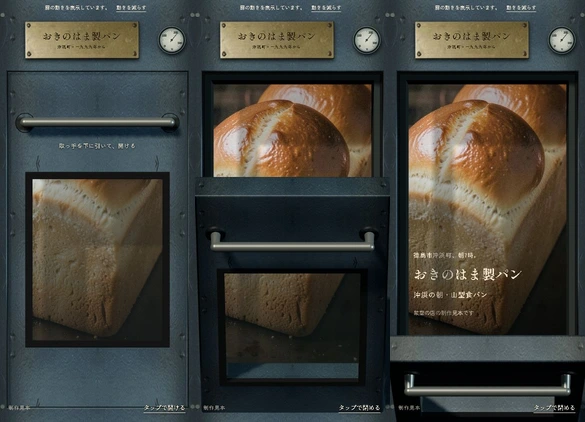
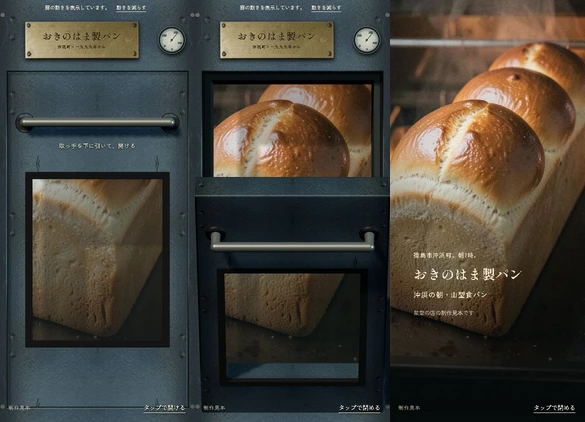
Release the full viewport after opening the oven door

Changed region(s): [[0.6462, 0.0, 1.0, 1.0]]

diff --git a/door-review/door.js b/door-review/door.js
@@ -6,7 +6,30 @@ const motion=matchMedia('(prefers-reduced-motion: reduce)'),note=document.getEle
 const help=document.getElementById('gesture-help'),renderNote=document.getElementById('render-note');
 let progress=0,width=1,height=1,drag=null,tween=0,lastPointerMove=-1000,motionAllowed=false;
 let engine=null,failed=false,gripBounds=null,baseHandleWidth=1;
+let view=0,viewTween=0;
 const isCalm=()=>motion.matches&&!motionAllowed;
+function stopViewTween(){cancelAnimationFrame(viewTween);viewTween=0;}
+function renderView(value){
+  view=clamp(value);
+  oven.style.setProperty('--view-zoom',(1+.9*view).toFixed(5));
+  oven.dataset.view=view>=.999999?'inside':view<=.000001?'framed':'passage';
+  if(view>0&&document.activeElement===handle)toggle.focus({preventScroll:true});
+  handle.inert=view>0;
+  handle.tabIndex=view>0?-1:0;
+  handle.setAttribute('aria-hidden',view>0?'true':'false');
+  if(engine){engine.setViewProgress(view);positionHandle();}
+}
+function moveView(target,animate=true,done){
+  stopViewTween();
+  if(!animate||isCalm()||failed||Math.abs(target-view)<.00001){renderView(target);done?.();return;}
+  const from=view,begin=performance.now(),duration=(target===1?480:340)*Math.max(.25,Math.abs(target-from));
+  const frame=(now)=>{
+    const t=clamp((now-begin)/duration);
+    renderView(from+(target-from)*(t*t*(3-2*t)));
+    if(t<1)viewTween=requestAnimationFrame(frame);else{viewTween=0;done?.();}
+  };
+  viewTween=requestAnimationFrame(frame);
+}
 function positionHandle() {
   if(!engine)return;
   gripBounds=engine.gripBounds();
@@ -27,16 +50,23 @@ function render(value) {
 }
 function announce() {status.textContent=progress<.01?'扉を閉めました。':progress>.99?'扉を開けました。':'扉はこの位置で止まっています。';}
 function stopTween(){cancelAnimationFrame(tween);tween=0;}
-function setProgress(value,animate=false) {
+function animateDoor(value,animate=false) {
   stopTween();
-  if(!animate||isCalm()||failed){render(value);announce();return;}
+  if(!animate||isCalm()||failed){render(value);announce();if(progress>=.999)moveView(1,false);return;}
   const from=progress,to=clamp(value),begin=performance.now(),duration=800*Math.max(.4,Math.abs(to-from));
   const frame=(now)=>{
     const t=clamp((now-begin)/duration);
     render(from+(to-from)*(t*t*(3-2*t)));
-    if(t<1)tween=requestAnimationFrame(frame);else{tween=0;announce();}
+    if(t<1)tween=requestAnimationFrame(frame);else{tween=0;announce();if(progress>=.999)moveView(1,true);}
   };
   tween=requestAnimationFrame(frame);
+}
+function setProgress(value,animate=false){
+  stopTween();stopViewTween();
+  const target=clamp(value);
+  if(view>0&&target<.999){moveView(0,animate,()=>animateDoor(target,animate));return;}
+  if(progress>=.999&&target>=.999){moveView(1,animate);return;}
+  animateDoor(target,animate);
 }
 function endDrag(event) {
   if(!drag||event.pointerId!==drag.id)return;
@@ -44,10 +74,11 @@ function endDrag(event) {
   if(drag.moved)lastPointerMove=performance.now();
   const pointerId=drag.id;drag=null;delete oven.dataset.dragging;
   if(oven.hasPointerCapture(pointerId))oven.releasePointerCapture(pointerId);
-  if(tappedHandle)setProgress(progress>.5?0:1,true);else announce();
+  if(tappedHandle)setProgress(progress>.5?0:1,true);
+  else{announce();if(event.type==='pointerup'&&progress>=.995){render(1);moveView(1,true);}}
 }
 oven.addEventListener('pointerdown',(event)=>{
-  if(event.button!==0||!event.isPrimary||isCalm()||drag||!engine||event.target.closest('button'))return;
+  if(event.button!==0||!event.isPrimary||isCalm()||drag||!engine||view>0||viewTween||event.target.closest('button'))return;
   const onHandle=!!event.target.closest('#handle');
   const hit=onHandle?{depth:gripBounds.depth,hinge:gripBounds.hinge,onHandle:true}:engine.pick(event.clientX,event.clientY);
   if(!hit)return;
@@ -89,14 +120,16 @@ function resize() {
   if(w===width&&h===height)return;
   if(drag)endDrag({pointerId:drag.id});
   width=w;height=h;
+  oven.style.setProperty('--viewport-center-y',`${height/2}px`);
   if(engine){
     engine.resize(width,height);
-    const old=progress;engine.setProgress(0);baseHandleWidth=engine.gripBounds().width;handle.style.width=`${baseHandleWidth}px`;engine.setProgress(old);positionHandle();
+    const old=progress;engine.setViewProgress(0);engine.setProgress(0);baseHandleWidth=engine.gripBounds().width;handle.style.width=`${baseHandleWidth}px`;engine.setProgress(old);engine.setViewProgress(view);positionHandle();
   }
 }
 function motionChanged() {
-  stopTween();if(drag)endDrag({pointerId:drag.id});
+  stopTween();stopViewTween();if(drag)endDrag({pointerId:drag.id});
   if(isCalm())render(progress>.5?1:0);
+  if(isCalm()||view>0||failed)renderView(progress>=.999?1:0);
   oven.dataset.motion=isCalm()?'reduced':'full';
   help.textContent=isCalm()||failed?'取っ手をタップして、開ける':'取っ手を下に引いて、開ける';
   document.getElementById('motion-message').textContent=motionAllowed?'扉の動きを表示しています。':'動きを減らす設定になっています。';
@@ -107,10 +140,10 @@ new ResizeObserver(resize).observe(oven);
 motion.addEventListener('change',()=>{motionAllowed=false;motionChanged();});
 document.getElementById('motion-toggle').addEventListener('click',()=>{motionAllowed=!motionAllowed;motionChanged();});
 function renderFailed(){
-  stopTween();if(drag)endDrag({pointerId:drag.id});
+  stopTween();stopViewTween();if(drag)endDrag({pointerId:drag.id});
   engine=null;failed=true;oven.dataset.renderer='fallback';renderNote.hidden=false;
   handle.style.width='84%';handle.style.transform='translate(50vw,30vh) translate(-50%,-50%)';
-  help.style.transform='translateY(35vh)';motionChanged();render(progress>.5?1:0);
+  help.style.transform='translateY(35vh)';motionChanged();render(progress>.5?1:0);renderView(progress>=.999?1:0);
 }
 const ticks=document.getElementById('ticks');
 for(let i=0;i<=30;i++){
@@ -118,8 +151,8 @@ for(let i=0;i<=30;i++){
   line.setAttribute('x1',50+Math.sin(a)*r);line.setAttribute('y1',50-Math.cos(a)*r);line.setAttribute('x2',50+Math.sin(a)*38);line.setAttribute('y2',50-Math.cos(a)*38);ticks.append(line);
 }
 resize();motionChanged();render(0);
-import('./door-scene.mjs?v=solid2').then(async({createOvenScene})=>{
+import('./door-scene.mjs?v=solid3').then(async({createOvenScene})=>{
   engine=await createOvenScene(canvas,renderFailed);
   engine.resize(width,height);engine.setProgress(0);baseHandleWidth=engine.gripBounds().width;handle.style.width=`${baseHandleWidth}px`;
-  oven.dataset.renderer='webgl';render(progress);
+  oven.dataset.renderer='webgl';render(progress);renderView(view);
 }).catch(renderFailed);

diff --git a/door-review/door.css b/door-review/door.css
@@ -3,6 +3,7 @@
   --paper: #f0e3c9;
   --reveal: 0;
   --opening: 0;
+  --view-zoom: 1;
   font-family: "Zen Kaku Gothic New","Yu Gothic",sans-serif;
   color: var(--paper);
   background: #101415;
@@ -25,7 +26,7 @@ button { font: inherit; }
 .bread-info small { display: block; margin-top: 23px; font-size: 11px; opacity: .72; }
 .oven-canvas { position: absolute; inset: 0; width: 100%; height: 100%; display: block; z-index: 1; touch-action: none; cursor: grab; }
 .oven[data-dragging] .oven-canvas,.oven[data-dragging] .handle { cursor: grabbing; }
-.oven-header { position: absolute; top: 0; left: 0; right: 0; height: 17%; pointer-events: none; z-index: 2; }
+.oven-header { position: absolute; top: 0; left: 0; right: 0; height: 17%; pointer-events: none; z-index: 2; transform-origin: 50% var(--viewport-center-y,50vh); transform: scale(var(--view-zoom)); }
 .makers-plate { position: absolute; top: 56%; left: 50%; transform: translate(-50%,-50%); width: clamp(224px,30vw,335px); height: clamp(55px,8.8vh,78px); display: flex; flex-direction: column; align-items: center; justify-content: center; gap: 7px; border: 11px solid transparent; border-image: url("assets/open/plate.jpg") 14 fill/11px stretch; box-shadow: 0 3px 8px #050a0c; color: #2e2617; text-shadow: 0 1px 0 rgba(238,218,157,.25); }
 .makers-plate span { white-space: nowrap; font: 700 clamp(19px,2vw,27px)/1 "Shippori Mincho B1",serif; letter-spacing: .06em; }
 .makers-plate small { font-size: 9px; letter-spacing: .1em; }
@@ -46,6 +47,7 @@ button { font: inherit; }
 .fallback-door { position: absolute; inset: 17% 12px 24px; background: url("assets/open/steel.webp") center/640px 240px; clip-path: polygon(evenodd,0 0,100% 0,100% 100%,0 100%,0 0,12% 31%,88% 31%,88% 81%,12% 81%,12% 31%); z-index: 1; }
 .oven:not([data-renderer="webgl"]) .oven-header { background: url("assets/open/steel.webp") center/640px 240px; }
 .oven[data-renderer="webgl"] .fallback-door { display: none; }
+.oven[data-view="inside"] .oven-canvas,.oven[data-view="inside"] .oven-header,.oven[data-view="inside"] .handle,.oven[data-view="inside"] .motion-note,.oven[data-view="inside"] .door-instruction { visibility: hidden; pointer-events: none; }
 .oven:not([data-renderer="webgl"])[data-position="open"] .fallback-door,.oven:not([data-renderer="webgl"])[data-position="open"] .handle img { visibility: hidden; }
 .sr-only { position: absolute; width: 1px; height: 1px; padding: 0; margin: -1px; overflow: hidden; clip: rect(0,0,0,0); white-space: nowrap; border: 0; }
 .no-script { position: absolute; bottom: 15%; left: 5%; right: 5%; background: #101719; padding: 20px; text-align: center; z-index: 5; }

diff --git a/door-review/index.html b/door-review/index.html
@@ -10,10 +10,10 @@
   <link rel="preconnect" href="https://fonts.googleapis.com">
   <link href="https://fonts.googleapis.com/css2?family=Shippori+Mincho+B1:wght@700&family=Zen+Kaku+Gothic+New:wght@500;700&display=swap" rel="stylesheet">
   <link rel="preload" href="assets/open/loaf.jpg" as="image">
-  <link rel="stylesheet" href="door.css?v=solid2">
+  <link rel="stylesheet" href="door.css?v=solid3">
 </head>
 <body>
-  <main class="oven" id="oven" data-position="closed" data-version="solid-v2" data-renderer="loading">
+  <main class="oven" id="oven" data-position="closed" data-view="framed" data-version="solid-v3" data-renderer="loading">
     <section class="chamber" aria-labelledby="bread-title">
       <div class="chamber-wall wall-left" aria-hidden="true"></div>
       <div class="chamber-wall wall-right" aria-hidden="true"></div>
@@ -50,6 +50,6 @@
     <p class="sr-only" id="door-status" role="status" aria-live="polite"></p>
     <noscript><p class="no-script">扉を動かすにはJavaScriptを有効にしてください。</p></noscript>
   </main>
-  <script type="module" src="door.js?v=solid2"></script>
+  <script type="module" src="door.js?v=solid3"></script>
 </body>
 </html>
